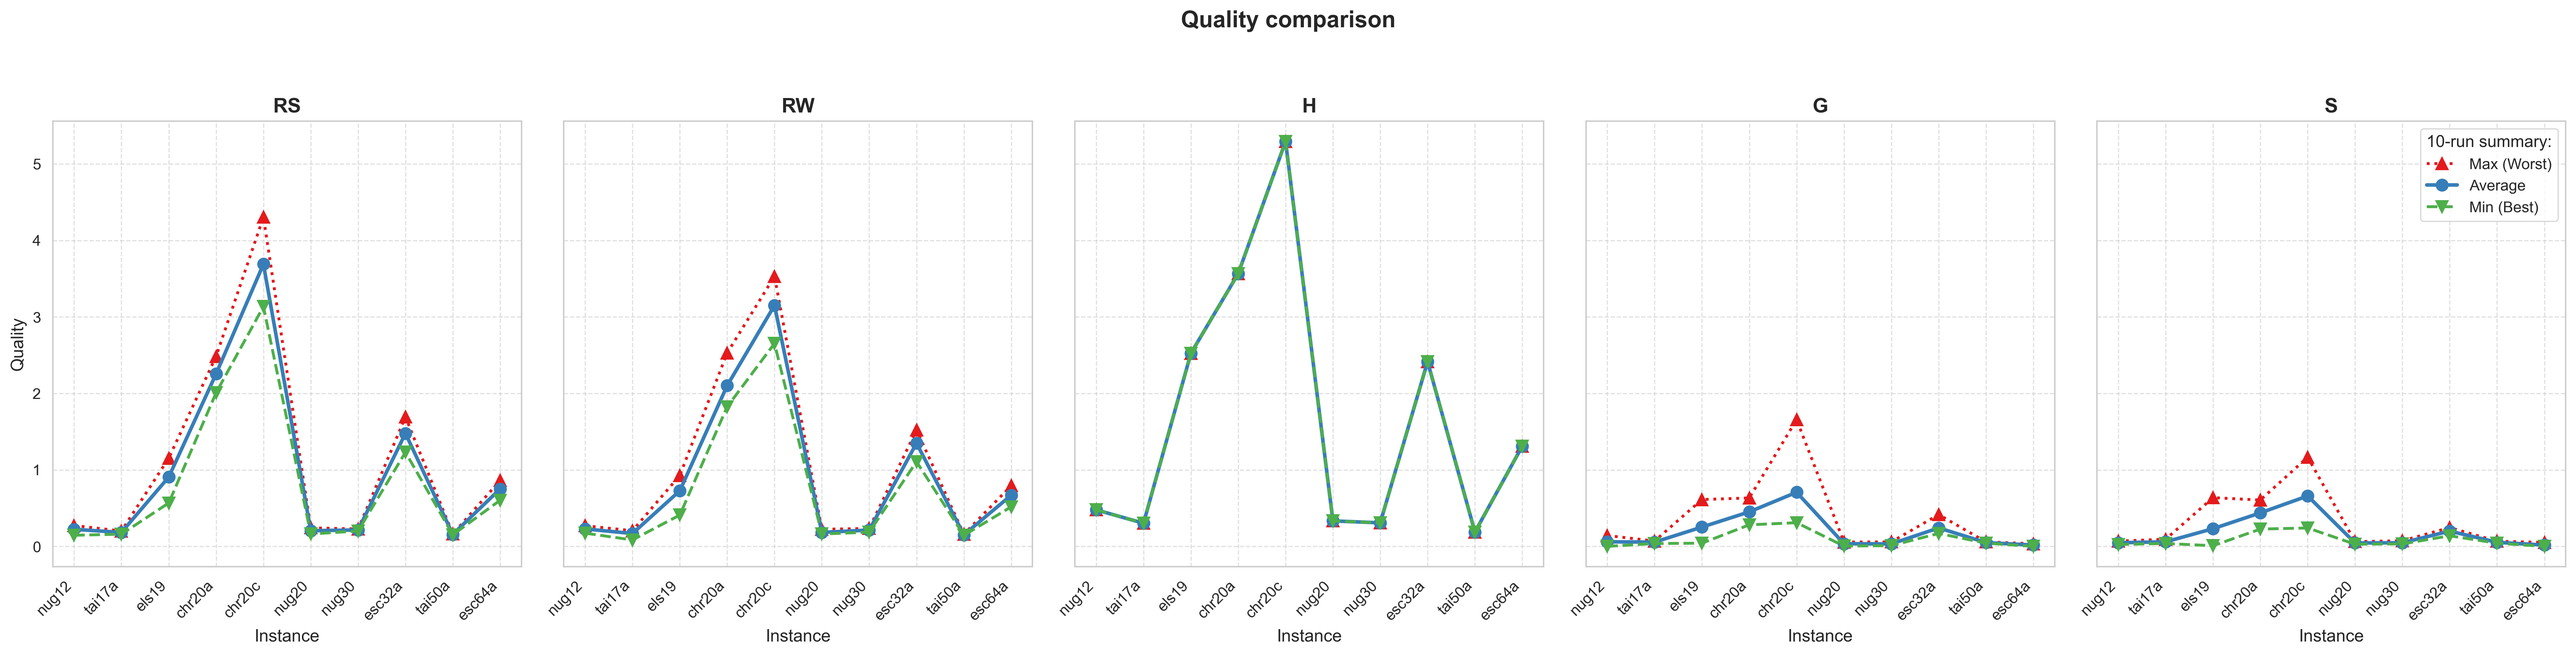
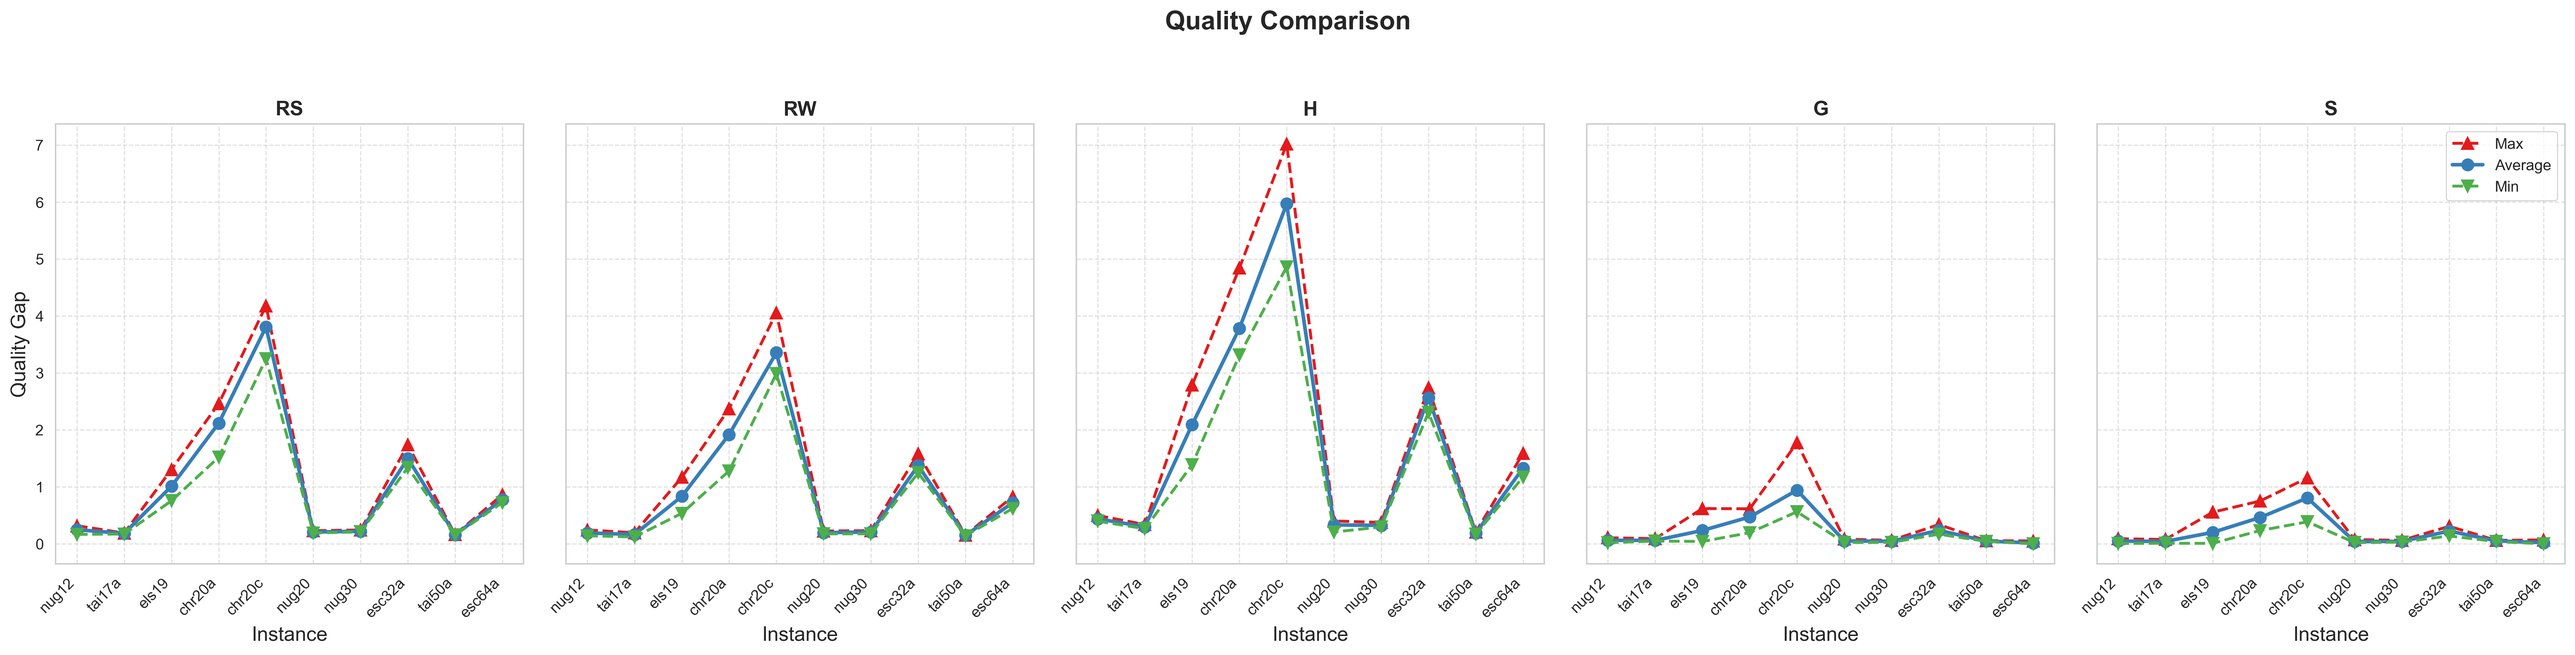
[PLOT]: quality, runtime

diff --git a/LS/src/plot.py b/LS/src/plot.py
@@ -11,7 +11,7 @@ def extract_size(instance_name):
     return int(match.group()) if match else 0
 
 def main():
-    print("🕵♀ QAP Expert Analysis (Refined Plot 1) started...")
+    print("Plotting started...")
 
     # Update the path if your results.csv is in another directory
     if not os.path.exists("../results.csv"):
@@ -20,11 +20,10 @@ def main():
 
     df = pd.read_csv("../results.csv", skipinitialspace=True)
 
-    # --- CHANGE 1: CLEAN INSTANCE NAMES ---
-    # Extract just the base name without path or .dat extension (e.g., /nug12.dat -> nug12)
+    # --- CLEAN INSTANCE NAMES ---
     df['Instance'] = df['Instance'].apply(lambda x: os.path.splitext(os.path.basename(x))[0])
 
-    # --- CHANGE 2: RENAME ALGORITHMS AND SET ORDER ---
+    # --- RENAME ALGORITHMS AND SET ORDER ---
     alg_mapping = {
         'RandomSearch': 'RS',
         'RandomWalk': 'RW',
@@ -34,27 +33,20 @@ def main():
     }
     df['Algorithm'] = df['Algorithm'].replace(alg_mapping)
     
-    # Define the strict order for the plots
     algorithms_order = ['RS', 'RW', 'H', 'G', 'S']
-    # Filter only algorithms that actually exist in the dataframe to avoid errors
     algorithms = [alg for alg in algorithms_order if alg in df['Algorithm'].unique()]
 
     # Protect against missing/zero OptCost to prevent division by zero
     df['OptCost'] = df['OptCost'].replace(0, np.nan)
 
-    # 1. QUALITY METRICS
+    # 1. QUALITY METRIC
     # Quality Gap: (f_A - f_OPT) / f_OPT (Lower is better)
     df['Quality_Gap'] = (df['BestCost'] - df['OptCost']) / df['OptCost']
-    
-    # Q-Score: f_OPT / f_A (Higher is better, max 1.0)
-    df['Q_Score'] = df['OptCost'] / df['BestCost']
-
-    # 2. EFFICIENCY METRIC (E = Q / ln(T))
-    df['Efficiency'] = df['Q_Score'] / np.log(np.maximum(df['TimeMicros'], 2))
 
     # Sort instances by extracted size N, then by name
     df['Size'] = df['Instance'].apply(extract_size)
     df = df.sort_values(by=['Size', 'Instance'])
+    # This list guarantees the X-axis order across all plots
     ordered_instances = df['Instance'].unique()
 
     sns.set_theme(style="whitegrid", context="paper", font_scale=1.2)
@@ -71,10 +63,7 @@ def main():
 
     agg_q = agg_q.sort_values(by=['Size', 'Instance'])
 
-    # Create subplots with shared Y axis
     fig, axes = plt.subplots(1, len(algorithms), figsize=(5 * len(algorithms), 6), sharey=True)
-    
-    # Handle case if there's only 1 algorithm tested
     if len(algorithms) == 1:
         axes = [axes]
 
@@ -83,134 +72,111 @@ def main():
 
         # MAX (Worst case)
         ax.plot(subset['Instance'], subset['Gap_Max'], marker='^', color='#e41a1c', 
-                linestyle=':', linewidth=2, markersize=8, label='Max (Worst)')
+                linestyle='--', linewidth=2, markersize=8, label='Max')
         # AVERAGE
         ax.plot(subset['Instance'], subset['Gap_Mean'], marker='o', color='#377eb8', 
                 linestyle='-', linewidth=2.5, markersize=8, label='Average')
         # MIN (Best case)
         ax.plot(subset['Instance'], subset['Gap_Min'], marker='v', color='#4daf4a', 
-                linestyle='--', linewidth=2, markersize=8, label='Min (Best)')
+                linestyle='--', linewidth=2, markersize=8, label='Min')
 
         ax.set_title(f"{alg}", fontweight='bold', fontsize=14)
-        ax.set_xticks(range(len(subset['Instance'])))
-        ax.set_xticklabels(subset['Instance'], rotation=45, ha='right')
+        # Using ordered_instances to ensure strict sorting
+        ax.set_xticks(range(len(ordered_instances)))
+        ax.set_xticklabels(ordered_instances, rotation=45, ha='right')
         
-        # --- CHANGE 3: X-AXIS NAME ---
-        ax.set_xlabel("Instance", fontsize=12)
+        ax.set_xlabel("Instance", fontsize=14)
         ax.grid(True, linestyle='--', alpha=0.6)
 
-    # --- CHANGE 4: Y-AXIS NAME & PLOT TITLE ---
-    axes[0].set_ylabel("Quality", fontsize=12)
-    plt.suptitle("Quality comparison", fontsize=16, fontweight='bold', y=1.05)
-    
-    # --- CHANGE 5: LEGEND IN THE TOP RIGHT CORNER OF THE LAST PLOT ---
-    # loc='upper right' places it strictly inside the top-right corner of the axes bounds
-    axes[-1].legend(loc='upper right', title="10-run summary:")
+    axes[0].set_ylabel("Quality Gap", fontsize=14)
+    plt.suptitle("Quality Comparison", fontsize=18, fontweight='bold', y=1.05)
+    axes[-1].legend(loc='upper right', title="")
 
     plt.tight_layout()
     plt.savefig("plot_1_quality_trends.png", dpi=300, bbox_inches='tight')
     plt.close()
     print("✅ PLOT 1: Generated (Quality comparison)")
 
-    # # ==========================================
-    # # PLOT 2: EFFICIENCY (E = Q / ln(T))
-    # # ==========================================
-    # plt.figure(figsize=(14, 7))
-    # sns.barplot(
-    #     data=df[df['Algorithm'] != 'H'], # Exclude Heuristic using new acronym
-    #     x='Instance', y='Efficiency', hue='Algorithm', hue_order=[a for a in algorithms if a != 'H'],
-    #     order=ordered_instances, palette=palette, errorbar='sd', capsize=0.1
-    # )
-    # plt.title("Algorithm Efficiency: E = Q / ln(T)", fontsize=16, fontweight='bold')
-    # plt.ylabel("Efficiency Score (Higher is Better)")
-    # plt.xlabel("Instance")
-    # plt.xticks(rotation=45)
-    # plt.legend(bbox_to_anchor=(1.01, 1), loc='upper left')
-    # plt.tight_layout()
-    # plt.savefig("plot_2_efficiency_barplot.png", dpi=300)
-    # plt.close()
-    # print("✅ PLOT 2: Generated (Efficiency Barplot)")
+    # ==========================================
+    # PLOT 2: COMPREHENSIVE PERFORMANCE COMPARISON
+    # Comparing average Quality Gap of all algorithms on each instance
+    # ==========================================
+    performance_agg = df.groupby(['Algorithm', 'Instance', 'Size']).agg(
+        AverageGap=('Quality_Gap', 'mean')
+    ).reset_index()
 
-    # # ==========================================
-    # # PLOT 3: PARETO FRONT (Time vs Quality)
-    # # ==========================================
-    # plt.figure(figsize=(12, 8))
-    
-    # pareto_df = df[df['Algorithm'] != 'H'].groupby(['Algorithm', 'Instance']).agg(
-    #     Avg_Time=('TimeMicros', 'mean'),
-    #     Avg_Gap=('Quality_Gap', 'mean')
-    # ).reset_index()
+    # Sort the aggregated data just to be safe
+    performance_agg = performance_agg.sort_values(by=['Size', 'Instance'])
 
-    # sns.scatterplot(
-    #     data=pareto_df, x='Avg_Time', y='Avg_Gap', hue='Algorithm', hue_order=[a for a in algorithms if a != 'H'],
-    #     style='Algorithm', s=150, palette=palette, alpha=0.8
-    # )
+    plt.figure(figsize=(16, 8)) # Wide format to fit all instances nicely
     
-    # pareto_df = pareto_df.sort_values('Avg_Time')
-    # front_x, front_y = [], []
-    # min_gap = float('inf')
+    # We use pointplot: dots connected by lines, perfect for showing trends
+    sns.pointplot(
+        data=performance_agg, 
+        x='Instance', 
+        y='AverageGap', 
+        hue='Algorithm',
+        hue_order=algorithms,         # Forces legend order (RS, RW, H, G, S)
+        order=ordered_instances,      # FORCES X-AXIS SORTING BY N SIZE
+        palette=palette,
+        markers=['o', 's', 'D', 'v', '^'], # Different shapes for each algorithm
+        linestyle='-',
+        linewidth=2,
+        markersize=8
+    )
     
-    # for _, row in pareto_df.iterrows():
-    #     if row['Avg_Gap'] < min_gap:
-    #         front_x.append(row['Avg_Time'])
-    #         front_y.append(row['Avg_Gap'])
-    #         min_gap = row['Avg_Gap']
-            
-    # plt.plot(front_x, front_y, color='black', linestyle='--', linewidth=2, label='Pareto Front')
-
-    # plt.title("Pareto Analysis: Average Time vs Average Quality", fontsize=16, fontweight='bold')
-    # plt.xlabel("Average Time [microseconds] (Log Scale)\n<-- FASTER")
-    # plt.ylabel("Quality (Relative Gap)\n<-- BETTER")
-    # plt.xscale('log')
+    plt.title("Average Quality Comparison", fontsize=18, fontweight='bold')
+    plt.ylabel("Average Quality Gap", fontsize=14)
+    plt.xlabel("Instance", fontsize=14)
     
-    # handles, labels = plt.gca().get_legend_handles_labels()
-    # plt.legend(handles=handles, labels=labels, bbox_to_anchor=(1.01, 1), loc='upper left')
-    
-    # plt.tight_layout()
-    # plt.savefig("plot_3_pareto_scatter.png", dpi=300)
-    # plt.close()
-    # print("✅ PLOT 3: Generated (Pareto Scatter Plot)")
-
-    # # ==========================================
-    # # PLOT 4: EVALUATIONS (Exploration)
-    # # ==========================================
-    # plt.figure(figsize=(14, 7))
-    # sns.boxplot(
-    #     data=df[df['Algorithm'] != 'H'], 
-    #     x='Instance', y='Evaluations', hue='Algorithm', hue_order=[a for a in algorithms if a != 'H'],
-    #     order=ordered_instances, palette=palette
-    # )
-    # plt.title("Exploration: Visited Solutions (Boxplot)", fontsize=16, fontweight='bold')
-    # plt.ylabel("Number of Evaluations (Log Scale)")
-    # plt.xlabel("Instance")
+    # Using a logarithmic scale on Y axis can be very helpful here because
+    # Random Search might have a gap of 2.0 (200%), while Steepest might have 0.05 (5%).
+    # If the lines look too squashed at the bottom, uncomment the line below:
     # plt.yscale('log')
-    # plt.xticks(rotation=45)
-    # plt.legend(bbox_to_anchor=(1.01, 1), loc='upper left')
-    # plt.tight_layout()
-    # plt.savefig("plot_4_evaluations_boxplot.png", dpi=300)
-    # plt.close()
-    # print("✅ PLOT 4: Generated (Evaluations Boxplot)")
 
-    # # ==========================================
-    # # PLOT 5: STEPS (Exploitation - Local Search Only)
-    # # ==========================================
-    # plt.figure(figsize=(14, 7))
-    # steps_df = df[df['Algorithm'].isin(['G', 'S'])]
-    # sns.barplot(
-    #     data=steps_df, x='Instance', y='Steps', hue='Algorithm', hue_order=['G', 'S'],
-    #     order=ordered_instances, palette=['#e41a1c', '#377eb8'], errorbar='sd', capsize=0.1
-    # )
-    # plt.title("Exploitation: Average Number of Executed Steps (Local Algorithms)", fontsize=16, fontweight='bold')
-    # plt.ylabel("Number of Executed Steps (Swaps)")
-    # plt.xlabel("Instance")
-    # plt.xticks(rotation=45)
-    # plt.legend(bbox_to_anchor=(1.01, 1), loc='upper left')
-    # plt.tight_layout()
-    # plt.savefig("plot_5_steps_barplot.png", dpi=300)
-    # plt.close()
-    # print("✅ PLOT 5: Generated (Steps Barplot)")
+    plt.xticks(rotation=45, fontsize=12)
+    
+    # Move legend outside the plot so it doesn't cover the data points
+    plt.legend(title="", bbox_to_anchor=(1.01, 1), loc='upper left', fontsize=12)
+    
+    plt.tight_layout()
+    plt.savefig("plot_2_performance_comparison.png", dpi=300)
+    plt.close()
+    print("✅ PLOT 2: Generated (Average Performance Pointplot)")
 
-    # print("\n🎉 All plots have been successfully generated and saved!")
+    # ==========================================
+    # PLOT 3: AVERAGE RUNNING TIME
+    # Average execution time with standard deviation
+    # ==========================================
+    plt.figure(figsize=(16, 8))
+    
+    sns.barplot(
+        data=df, 
+        x='Instance', 
+        y='TimeMicros', 
+        hue='Algorithm',
+        hue_order=algorithms,    # Zachowuje kolejność RS, RW, H, G, S
+        order=ordered_instances, # Posortowane rosnąco według N
+        palette=palette,
+        errorbar='sd',           # Rysuje odchylenie standardowe (Standard Deviation)
+        capsize=0.1              # Dodaje poziome kreski na końcach wąsów błędu
+    )
+    
+    plt.title("Average Running Time With Standard Deviation", fontsize=18, fontweight='bold')
+    plt.ylabel("Time [μs]", fontsize=14)
+    plt.xlabel("Instance", fontsize=14)
+    
+    # Skala logarytmiczna - kluczowa dla czasów wykonania algorytmów
+    plt.yscale('log')
+    
+    plt.xticks(rotation=45, fontsize=12)
+    plt.legend(title="", bbox_to_anchor=(1.01, 1), loc='upper left', fontsize=12)
+    
+    plt.tight_layout()
+    plt.savefig("plot_3_running_time.png", dpi=300)
+    plt.close()
+    print("✅ PLOT 3: Generated (Average Running Time)")
 
+    
 if __name__ == "__main__":
     main()
